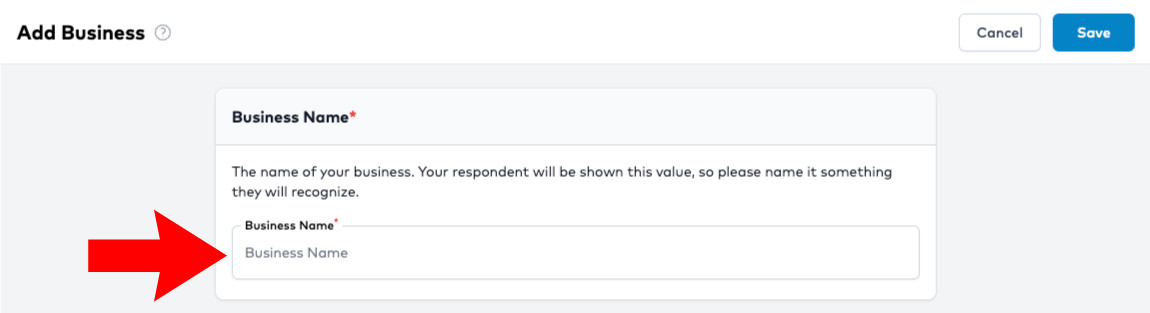
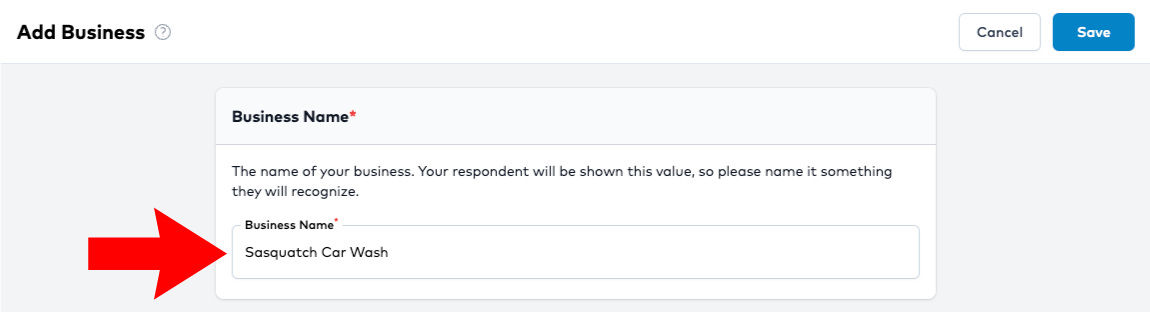
commit

diff --git a/docs/items/businesses/edit.md b/docs/items/businesses/edit.md
@@ -1,50 +1,50 @@
 ---
-title: "Edit Product"
+title: "Edit Business"
 sidebar_position: 3
 ---
 
-# How to Edit a Product
+# How to Edit a Business
 
-This article outlines how to edit a product in ReviewStream
-
----
-
-## Find Product You'd Like To Edit
-
-On the [Products](https://app.reviewstream.ai/products) page of your ReviewStream account, locate the product you would like to edit, then click the Pencil icon.
-
-![Locate The Product You Would Like To Edit](/img/items/products/edit.png)
+This article outlines how to edit a business in ReviewStream
 
 ---
 
-## Edit Product Name
+## Find The Business You'd Like To Edit
 
-To edit your product name, locate the "Product Name" section
+On the [Businesses](https://app.reviewstream.ai/businesses) page of your ReviewStream account, locate the business you would like to edit, then click the Pencil icon.
 
-![Edit Product Name](/img/items/products/edit_name.png)
+![Find The Business You'd Like To Edit](/img/items/businesses/edit.png)
+
+---
+
+## Edit Business Name
+
+To edit your business name, locate the "Business Name" section
+
+![Edit Business Name](/img/items/businesses/edit_name.png)
 
 ---
 
 ## Edit Platform(s)
 
-Select which platforms you would like to edit for this product. You can de-activate or change the item value for any available platform.
+Select which platforms you would like to edit for this business. You can de-activate or change the item value for any available platform.
 
-![Edit Platform(s)](/img/items/products/edit_platforms.png)
+![Edit Platform(s)](/img/items/businesses/edit_platforms.png)
 
 ---
 
-## Edit Product Image
+## Edit Business Image
 
-If you would like to update your product image, locate the "Product Image" section and click the "Choose File" button. From here, select the new image you would like to upload.
+If you would like to update your business image, locate the "Business Image" section and click the "Choose File" button. From here, select the new image you would like to upload.
 
-![Edit Platform(s)](/img/items/products/edit_image.png)
+![Edit Business Image](/img/items/businesses/edit_image.png)
 
 ---
 
 ### Click “Save”
 
-Once you have made your desired edits, click **Save**. Your product will now have the updated values.
+Once you have made your desired edits, click **Save**. Your business will now have the updated values.
 
-![Click “Save”](/img/items/products/save_edit.png)
+![Click “Save”](/img/items/businesses/edit_save.png)
 
 ---

diff --git a/docs/items/businesses/add.md b/docs/items/businesses/add.md
@@ -31,7 +31,7 @@ Provide a name for your business. This name will be shown to your respondent, so
 
 Select which platforms you would like to make active for this business. Once you have activated a platform, you will then need to input the unique platform ID for this item.
 
-<!-- ![Choose Platform(s)](/img/items/businesses/platforms.png) -->
+![Choose Platform(s)](/img/items/businesses/platforms.png)
 
 **Note**: Do not input the entire platform URL into the business ID field on ReviewStream unless the instrutions call for it. Please reference the "Where do I find this?" link next to each platform input field to ensure you are inputting the correct value.
 
@@ -40,20 +40,20 @@ Select which platforms you would like to make active for this business. Once you
 If you don’t see your platform listed:
 
 -   Click the **“+ Add Platform”** button at the bottom of the list of review platforms.
-    <!-- ![Choose Platform(s)](/img/items/businesses/add_platform.png) -->
+    ![Choose Platform(s)](/img/items/businesses/add_platform.png)
 -   Once you have added your desired platform, return to the "Add Business" page to finish adding your business.
 
 ### 5. Upload Image (optional)
 
 Uploading a business image will show your respondent an image of the business they interacted with. Uploading an image provides valuable visual recall to your respondent to ensure they are selecting the correct business that they had an interaction with.
 
-<!-- ![Upload Image (optional)](/img/items/businesses/image.png) -->
+![Upload Image (optional)](/img/items/businesses/image.png)
 
 ### 6. Click “Save”
 
 Once all required fields are filled out, click **Save**. Your new business will now be available for assigning to landing pages.
 
-<!-- ![Click “Save”](/img/items/businesses/save.png) -->
+![Click “Save”](/img/items/businesses/save.png)
 
 ---
 

diff --git a/docs/items/products/edit.md b/docs/items/products/edit.md
@@ -37,7 +37,7 @@ Select which platforms you would like to edit for this product. You can de-activ
 
 If you would like to update your product image, locate the "Product Image" section and click the "Choose File" button. From here, select the new image you would like to upload.
 
-![Edit Platform(s)](/img/items/products/edit_image.png)
+![Edit Product Image](/img/items/products/edit_image.png)
 
 ---
 
